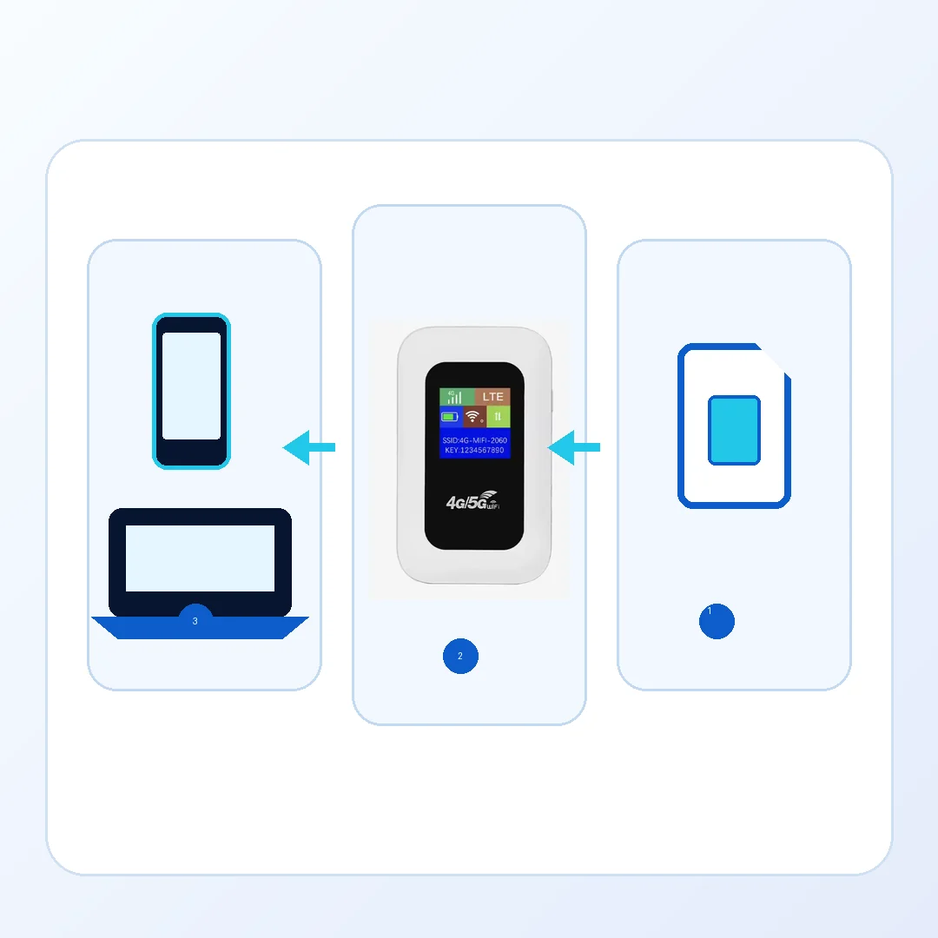
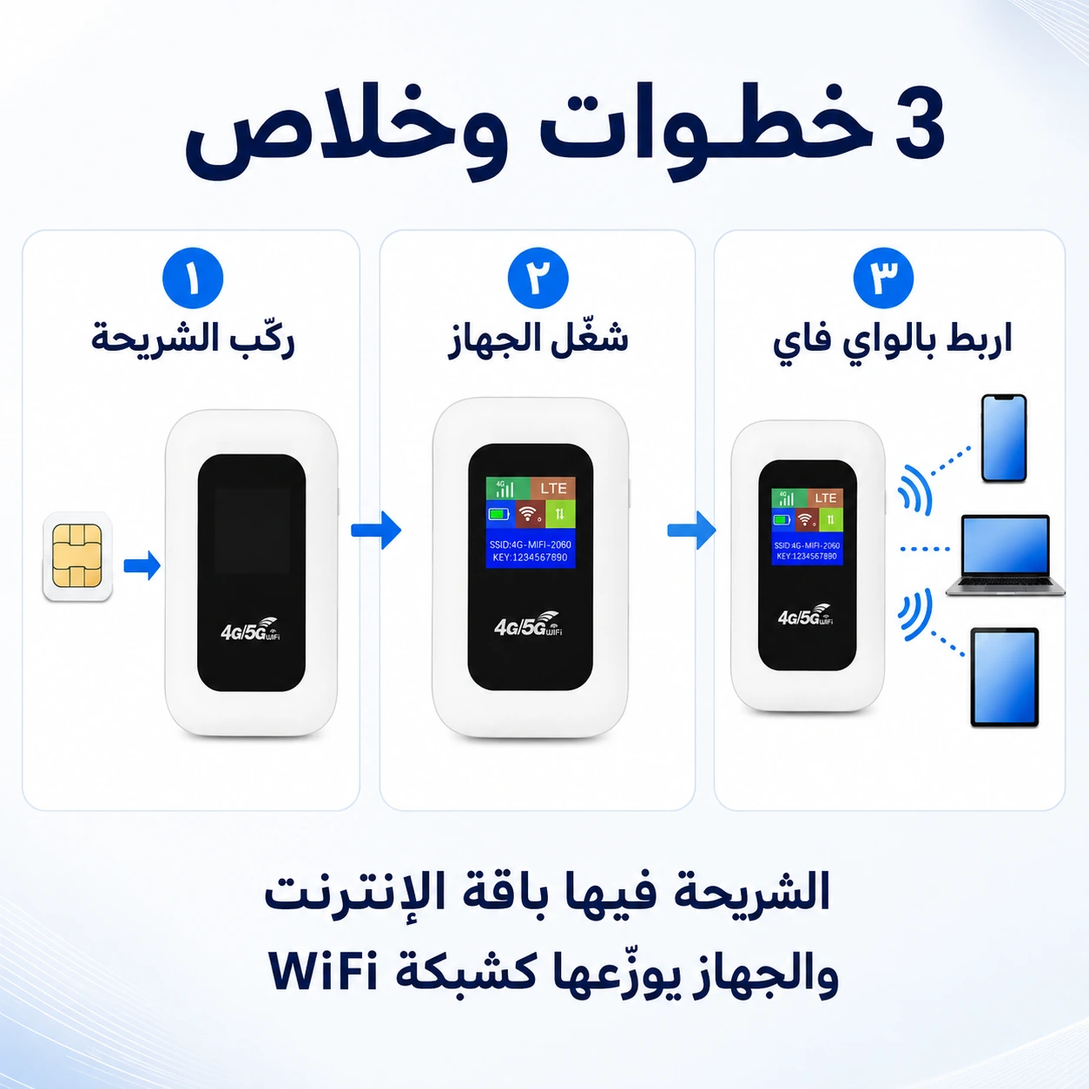
Use approved MF800B product image set

diff --git a/index.html b/index.html
@@ -6,7 +6,8 @@
   <meta name="theme-color" content="#06152f">
   <meta name="description" content="MF800B راوتر واي فاي محمول 4G LTE يعمل بشريحة SIM — متوفر داخل ليبيا والدفع عند الاستلام.">
   <title>MF800B | الإنترنت معاك وين ما تمشي</title>
-  <link rel="preload" as="image" href="images/hero-mf800b.webp" type="image/webp" fetchpriority="high">
+  <link rel="icon" href="images/hero-power-cut-main.webp" type="image/webp">
+  <link rel="preload" as="image" href="images/hero-power-cut-main.webp" type="image/webp" fetchpriority="high">
   <link rel="stylesheet" href="styles.css">
   <script>
     !function(f,b,e,v,n,t,s){if(f.fbq)return;n=f.fbq=function(){n.callMethod?
@@ -43,36 +44,28 @@
         <div class="product-gallery" role="group" aria-label="صور المنتج">
           <div class="gallery-track" data-gallery-track tabindex="0" role="region" aria-label="اسحب لمشاهدة صور المنتج">
             <figure class="gallery-slide active" data-slide="0">
-              <img src="images/hero-mf800b.webp" width="1080" height="1080" alt="جهاز MF800B الأبيض مع علبته" fetchpriority="high">
-              <figcaption class="gallery-chip"><b>MF800B</b><span>4G LTE Portable WiFi</span></figcaption>
+              <img src="images/hero-power-cut-main.webp" width="1254" height="1254" alt="MF800B يشارك إنترنت شريحة 4G مع الهاتف واللابتوب والتابلت وقت انقطاع الكهرباء" fetchpriority="high">
             </figure>
             <figure class="gallery-slide" data-slide="1">
-              <img src="images/how-it-works.webp" width="1080" height="1080" alt="شرح بصري من الشريحة إلى MF800B ثم الهاتف واللابتوب" loading="lazy">
-              <figcaption class="slide-copy light-copy"><b>3 خطوات وخلاص</b><span>ركّب الشريحة ← شغّل الجهاز ← اربط بالواي فاي</span></figcaption>
+              <img src="images/real-product-packaging.webp" width="1254" height="1254" alt="جهاز MF800B الأبيض مع علبة المنتج المطابقة" loading="lazy">
             </figure>
             <figure class="gallery-slide" data-slide="2">
-              <img src="images/power-cut.webp" width="1080" height="1080" alt="جهاز MF800B مشحون يشارك اتصال الشريحة مع هاتف وقت انقطاع الكهرباء" loading="lazy">
-              <figcaption class="slide-copy dark-copy"><b>الكهرباء قطعت؟</b><span>لو شبكة الهاتف شغالة، خليك متصل</span></figcaption>
+              <img src="images/how-it-works.webp" width="1254" height="1254" alt="ثلاث خطوات لتشغيل MF800B: تركيب الشريحة وتشغيل الجهاز والربط بالواي فاي" loading="lazy">
             </figure>
             <figure class="gallery-slide" data-slide="3">
-              <img src="images/multi-device.webp" width="1080" height="1080" alt="MF800B في وسط هاتف ولابتوب وتابلت متصلة بالواي فاي" loading="lazy">
-              <figcaption class="slide-copy dark-copy"><b>شبكة واحدة لأجهزتك</b><span>للهاتف واللابتوب والتابلت</span></figcaption>
+              <img src="images/multi-device-wifi.webp" width="1254" height="1254" alt="MF800B يربط الهاتف واللابتوب والتابلت بشبكة واي فاي واحدة" loading="lazy">
             </figure>
             <figure class="gallery-slide" data-slide="4">
-              <img src="images/portable-size.webp" width="1080" height="1080" alt="MF800B بحجم محمول بجانب أغراض السفر" loading="lazy">
-              <figcaption class="slide-copy light-copy"><b>الإنترنت معاك وين ما تمشي</b><span>خفيف للحوش، الشغل والسفر</span></figcaption>
+              <img src="images/portability.webp" width="1254" height="1254" alt="حجم MF800B المحمول مناسب للحوش والعمل والجامعة والسفر" loading="lazy">
             </figure>
             <figure class="gallery-slide" data-slide="5">
-              <img src="images/work-study.webp" width="1080" height="1080" alt="MF800B مع لابتوب وتابلت وهاتف على مكتب" loading="lazy">
-              <figcaption class="slide-copy light-copy"><b>للشغل، الدراسة والتنقل</b><span>شبكة مستقلة بدل ما يكون تلفونك هو الراوتر</span></figcaption>
+              <img src="images/features.webp" width="1254" height="1254" alt="مواصفات MF800B: اتصال 4G LTE وسرعة معلنة حتى 150Mbps وشحن Type-C وبطارية وواي فاي" loading="lazy">
             </figure>
             <figure class="gallery-slide" data-slide="6">
-              <img src="images/features.webp" width="1080" height="1080" alt="جهاز MF800B مع رموز أهم المواصفات" loading="lazy">
-              <figcaption class="slide-copy dark-copy"><b>كل اللي تحتاجه في جهاز واحد</b><span>4G LTE • SIM • Type-C • شاشة حالة</span></figcaption>
+              <img src="images/sim-explainer.webp" width="1254" height="1254" alt="شرح أن شريحة SIM وباقة 4G هما مصدر الإنترنت الذي يوزعه MF800B كشبكة WiFi" loading="lazy">
             </figure>
             <figure class="gallery-slide" data-slide="7">
-              <img src="images/real-product-package.webp" width="1080" height="1080" alt="جهاز MF800B والعلبة المطابقة للمنتج" loading="lazy">
-              <figcaption class="slide-copy light-copy"><b>نفس الجهاز اللي يوصلك</b><span>الجهاز الأبيض بواجهته السوداء مع العلبة الظاهرة</span></figcaption>
+              <img src="images/work-study.webp" width="1254" height="1254" alt="استخدام MF800B للعمل والدراسة والتنقل مع اللابتوب" loading="lazy">
             </figure>
           </div>
 
@@ -88,14 +81,14 @@
           </div>
 
           <div class="gallery-thumbs" aria-label="صور مصغرة للمنتج">
-            <button class="active" type="button" data-thumb="0" aria-label="عرض صورة المنتج والعلبة"><img src="images/hero-mf800b.webp" width="1080" height="1080" alt=""></button>
-            <button type="button" data-thumb="1" aria-label="عرض طريقة التشغيل"><img src="images/how-it-works.webp" width="1080" height="1080" alt="" loading="lazy"></button>
-            <button type="button" data-thumb="2" aria-label="عرض الاستخدام وقت انقطاع الكهرباء"><img src="images/power-cut.webp" width="1080" height="1080" alt="" loading="lazy"></button>
-            <button type="button" data-thumb="3" aria-label="عرض الاتصال بأجهزة متعددة"><img src="images/multi-device.webp" width="1080" height="1080" alt="" loading="lazy"></button>
-            <button type="button" data-thumb="4" aria-label="عرض الحجم المحمول"><img src="images/portable-size.webp" width="1080" height="1080" alt="" loading="lazy"></button>
-            <button type="button" data-thumb="5" aria-label="عرض استخدام العمل والدراسة"><img src="images/work-study.webp" width="1080" height="1080" alt="" loading="lazy"></button>
-            <button type="button" data-thumb="6" aria-label="عرض المواصفات"><img src="images/features.webp" width="1080" height="1080" alt="" loading="lazy"></button>
-            <button type="button" data-thumb="7" aria-label="عرض المنتج والعلبة"><img src="images/real-product-package.webp" width="1080" height="1080" alt="" loading="lazy"></button>
+            <button class="active" type="button" data-thumb="0" aria-label="عرض فائدة الجهاز وقت انقطاع الكهرباء"><img src="images/hero-power-cut-main.webp" width="1254" height="1254" alt=""></button>
+            <button type="button" data-thumb="1" aria-label="عرض المنتج والعلبة"><img src="images/real-product-packaging.webp" width="1254" height="1254" alt="" loading="lazy"></button>
+            <button type="button" data-thumb="2" aria-label="عرض طريقة التشغيل"><img src="images/how-it-works.webp" width="1254" height="1254" alt="" loading="lazy"></button>
+            <button type="button" data-thumb="3" aria-label="عرض الاتصال بأجهزة متعددة"><img src="images/multi-device-wifi.webp" width="1254" height="1254" alt="" loading="lazy"></button>
+            <button type="button" data-thumb="4" aria-label="عرض سهولة حمل الجهاز"><img src="images/portability.webp" width="1254" height="1254" alt="" loading="lazy"></button>
+            <button type="button" data-thumb="5" aria-label="عرض المواصفات"><img src="images/features.webp" width="1254" height="1254" alt="" loading="lazy"></button>
+            <button type="button" data-thumb="6" aria-label="عرض مصدر الإنترنت من الشريحة"><img src="images/sim-explainer.webp" width="1254" height="1254" alt="" loading="lazy"></button>
+            <button type="button" data-thumb="7" aria-label="عرض استخدام العمل والدراسة"><img src="images/work-study.webp" width="1254" height="1254" alt="" loading="lazy"></button>
           </div>
         </div>
 
@@ -153,17 +146,16 @@
     </section>
 
     <section class="content-section how-section">
-      <div class="container split-section">
-        <div class="content-image"><img src="images/how-it-works.webp" width="1080" height="1080" alt="مسار الشريحة إلى MF800B ثم أجهزتك" loading="lazy"></div>
-        <div class="section-copy">
+      <div class="container how-flow">
+        <div class="section-heading center">
           <span class="section-kicker">كيف يخدم؟</span>
-          <h2>3 خطوات وخلاص</h2>
-          <ol class="steps-list">
-            <li><b>1</b><div><strong>ركّب الشريحة</strong><span>شريحة SIM فيها باقة 4G ومتوافقة مع الجهاز.</span></div></li>
-            <li><b>2</b><div><strong>شغّل الجهاز</strong><span>خليه يلتقط شبكة الهاتف ويجهّز شبكة WiFi الخاصة.</span></div></li>
-            <li><b>3</b><div><strong>اربط بالواي فاي</strong><span>من الهاتف أو اللابتوب أو التابلت.</span></div></li>
-          </ol>
+          <h2>من شريحتك لشبكة WiFi خاصة</h2>
         </div>
+        <ol class="steps-list">
+          <li><b>1</b><div><strong>ركّب الشريحة</strong><span>شريحة SIM فيها باقة 4G ومتوافقة مع الجهاز.</span></div></li>
+          <li><b>2</b><div><strong>شغّل الجهاز</strong><span>خليه يلتقط شبكة الهاتف ويجهّز شبكة WiFi الخاصة.</span></div></li>
+          <li><b>3</b><div><strong>اربط بالواي فاي</strong><span>من الهاتف أو اللابتوب أو التابلت.</span></div></li>
+        </ol>
       </div>
     </section>
 
@@ -181,7 +173,7 @@
 
     <section class="content-section dark-section">
       <div class="container split-section reverse">
-        <div class="content-image"><img src="images/power-cut.webp" width="1080" height="1080" alt="هاتف متصل بجهاز MF800B وقت انقطاع الكهرباء" loading="lazy"></div>
+        <div class="content-image"><img src="images/power-cut-lifestyle.webp" width="1254" height="1254" style="aspect-ratio: 1 / 1" alt="MF800B مشحون يبقي الهاتف واللابتوب متصلين وقت انقطاع الكهرباء إذا استمرت شبكة الهاتف" loading="lazy" decoding="async"></div>
         <div class="section-copy">
           <span class="section-kicker">وقت انقطاع الكهرباء</span>
           <h2>الكهرباء قطعت؟ لو شبكة الهاتف شغالة، خليك متصل</h2>
@@ -202,31 +194,31 @@
       </div>
     </section>
 
-    <section class="content-section soft-section">
-      <div class="container">
-        <div class="section-heading"><span class="section-kicker">خذه معاك</span><h2>للشغل، الدراسة والتنقل</h2></div>
-        <div class="lifestyle-cards">
-          <figure><img src="images/portable-size.webp" width="1080" height="1080" alt="MF800B بجانب أغراض التنقل" loading="lazy"><figcaption><b>حجم محمول</b><span>سهل تحطه في الشنطة وتخليه قريب من أفضل إشارة.</span></figcaption></figure>
-          <figure><img src="images/work-study.webp" width="1080" height="1080" alt="MF800B على مكتب مع لابتوب وتابلت وهاتف" loading="lazy"><figcaption><b>شبكة لأجهزتك</b><span>للهاتف والتابلت واللابتوب بدون حد عددي غير موثّق.</span></figcaption></figure>
-          <figure><img src="images/multi-device.webp" width="1080" height="1080" alt="MF800B في وسط أجهزة شخصية متصلة" loading="lazy"><figcaption><b>جهاز مستقل</b><span>ما تحتاجش تترك تلفونك Hotspot طول الوقت.</span></figcaption></figure>
+    <section class="content-section soft-section travel-section">
+      <div class="container split-section">
+        <div class="content-image"><img src="images/travel-car.webp" width="1254" height="1254" style="aspect-ratio: 1 / 1" alt="MF800B داخل السيارة للاستخدام أثناء السفر عند توفر تغطية 4G" loading="lazy" decoding="async"></div>
+        <div class="section-copy">
+          <span class="section-kicker">خذه معاك</span>
+          <h2>شبكة مستقلة للتنقل والطريق</h2>
+          <p>حط الجهاز في شنطتك واستعمله في الشغل أو الجامعة أو السفر لما تكون تغطية 4G وباقة البيانات متوفرتين.</p>
+          <ul class="plain-checks"><li>حجم محمول وسهل الحمل</li><li>شبكة WiFi لأجهزتك الشخصية</li><li>ما تحتاجش تترك تلفونك Hotspot طول الوقت</li></ul>
         </div>
       </div>
     </section>
 
     <section class="content-section features-section">
-      <div class="container split-section">
-        <div class="content-image"><img src="images/features.webp" width="1080" height="1080" alt="أهم خصائص MF800B الموثقة" loading="lazy"></div>
-        <div class="section-copy">
+      <div class="container features-copy">
+        <div class="section-heading center">
           <span class="section-kicker">المواصفات المهمة</span>
-          <h2>كل اللي تحتاجه في جهاز واحد</h2>
-          <div class="spec-grid">
-            <div><b>4G LTE</b><span>راوتر محمول، مش راوتر 5G خلوي</span></div>
-            <div><b>حتى 150Mbps*</b><span>حد نظري/معلن وليس سرعة مضمونة</span></div>
-            <div><b>SIM</b><span>يستعمل بيانات شريحة الهاتف</span></div>
-            <div><b>Type-C</b><span>منفذ شحن حديث</span></div>
-            <div><b>شاشة حالة</b><span>للإشارة والبطارية ومعلومات الشبكة</span></div>
-            <div><b>WiFi</b><span>لأجهزتك التي تدعم الواي فاي</span></div>
-          </div>
+          <h2>المعلومات اللي تهمك قبل الطلب</h2>
+        </div>
+        <div class="spec-grid">
+          <div><b>4G LTE</b><span>راوتر محمول، مش راوتر 5G خلوي</span></div>
+          <div><b>حتى 150Mbps*</b><span>حد نظري/معلن وليس سرعة مضمونة</span></div>
+          <div><b>SIM</b><span>يستعمل بيانات شريحة الهاتف</span></div>
+          <div><b>Type-C</b><span>منفذ شحن حديث</span></div>
+          <div><b>شاشة حالة</b><span>للإشارة والبطارية ومعلومات الشبكة</span></div>
+          <div><b>WiFi</b><span>لأجهزتك التي تدعم الواي فاي</span></div>
         </div>
       </div>
     </section>
@@ -245,11 +237,11 @@
 
     <section class="content-section package-section">
       <div class="container split-section reverse">
-        <div class="content-image"><img src="images/real-product-package.webp" width="1080" height="1080" alt="MF800B مع علبة المنتج" loading="lazy"></div>
+        <div class="content-image"><img src="images/real-product-packaging.webp" width="1254" height="1254" style="aspect-ratio: 1 / 1" alt="MF800B الأبيض بواجهته السوداء مع علبة المنتج" loading="lazy" decoding="async"></div>
         <div class="section-copy">
           <span class="section-kicker">المنتج والعلبة</span>
-          <h2>نفس الجهاز اللي يوصلك</h2>
-          <p>MF800B أبيض بواجهة سوداء وشاشة حالة ملونة، مع علبة المنتج الظاهرة. الصور مبنية على مراجع الجهاز والعلبة الفعليين، مش على موديل مختلف.</p>
+          <h2>صورة واضحة للقطعة والعلبة قبل الطلب</h2>
+          <p>MF800B أبيض بواجهة سوداء وشاشة حالة ملونة، مع علبة المنتج الظاهرة في الصورة المعتمدة.</p>
           <ul class="plain-checks"><li>نفس شكل الجسم الأبيض</li><li>نفس الواجهة السوداء ومكان الشاشة</li><li>نفس هوية العلبة</li></ul>
           <p class="accessory-note">محتويات الملحقات قد تختلف حسب الدفعة؛ فريق التأكيد يوضح المتوفر قبل الشحن.</p>
         </div>

diff --git a/styles.css b/styles.css
@@ -49,22 +49,12 @@ h1, h2, h3, p { margin-top: 0; }
 .gallery-slide { display: none; position: relative; width: 100%; height: 100%; margin: 0; background: #edf5fe; }
 .gallery-slide.active { display: block; }
 .gallery-slide > img { width: 100%; height: 100%; aspect-ratio: 1; object-fit: contain; }
-.gallery-chip, .slide-copy { position: absolute; z-index: 2; right: 22px; display: flex; flex-direction: column; max-width: calc(100% - 44px); border-radius: 16px; box-shadow: 0 8px 30px rgba(6,21,47,.14); }
-.gallery-chip { bottom: 22px; padding: 10px 15px; background: rgba(6,21,47,.91); color: #fff; line-height: 1.35; }
-.gallery-chip b { font-size: 14px; }
-.gallery-chip span { color: #bceffc; font-size: 10px; direction: ltr; }
-.slide-copy { top: 22px; padding: 11px 14px; line-height: 1.45; }
-.slide-copy b { font-size: 17px; }
-.slide-copy span { font-size: 11px; font-weight: 700; }
-.light-copy { background: rgba(255,255,255,.92); color: var(--navy); }
-.dark-copy { background: rgba(6,21,47,.90); color: #fff; }
-.dark-copy span { color: #c9f3fb; }
 .gallery-dots { display: none; }
 .gallery-thumbs { display: grid; grid-template-columns: repeat(8, 1fr); gap: 8px; margin-top: 11px; direction: ltr; }
 .gallery-thumbs button { padding: 0; aspect-ratio: 1; border: 2px solid transparent; border-radius: 11px; overflow: hidden; background: #fff; cursor: pointer; opacity: .65; transition: .18s ease; }
 .gallery-thumbs button:hover, .gallery-thumbs button:focus-visible { opacity: 1; border-color: #8ccaf1; }
 .gallery-thumbs button.active { opacity: 1; border-color: var(--blue); box-shadow: 0 0 0 3px rgba(14,92,202,.12); }
-.gallery-thumbs img { width: 100%; height: 100%; object-fit: cover; }
+.gallery-thumbs img { width: 100%; height: 100%; object-fit: contain; }
 
 .descriptor { display: inline-flex; margin: 0 0 8px; padding: 6px 10px; border: 1px solid #b9d6f6; border-radius: 999px; background: #edf6ff; color: var(--blue); font-size: 11px; font-weight: 900; }
 .product-panel h1 { margin-bottom: 11px; color: var(--navy); font-size: clamp(34px, 3.6vw, 51px); line-height: 1.12; letter-spacing: -.035em; }
@@ -137,6 +127,8 @@ h1, h2, h3, p { margin-top: 0; }
 .section-copy > p { color: var(--muted); font-size: 16px; line-height: 1.9; }
 .dark-section .section-copy > p { color: #c8d5e7; }
 .steps-list { display: grid; gap: 10px; margin: 18px 0 0; padding: 0; list-style: none; }
+.how-flow { max-width: 1000px; }
+.how-flow .steps-list { grid-template-columns: repeat(3, minmax(0, 1fr)); }
 .steps-list li { display: grid; grid-template-columns: 42px 1fr; gap: 12px; align-items: center; padding: 12px; border: 1px solid var(--line); border-radius: 14px; background: #fff; }
 .steps-list li > b { width: 42px; height: 42px; display: grid; place-items: center; border-radius: 12px; background: var(--navy); color: #fff; font-size: 17px; }
 .steps-list div { display: flex; flex-direction: column; }
@@ -161,13 +153,10 @@ h1, h2, h3, p { margin-top: 0; }
 .comparison-cards li, .plain-checks li { position: relative; padding-right: 22px; color: #4d5b70; font-size: 13px; }
 .comparison-cards li::before, .plain-checks li::before { content: "✓"; position: absolute; right: 0; color: var(--green); font-weight: 900; }
 .comparison-note { max-width: 820px; margin: 15px auto 0; color: var(--muted); font-size: 11px; text-align: center; }
-.lifestyle-cards { display: grid; grid-template-columns: repeat(3, 1fr); gap: 14px; }
-.lifestyle-cards figure { margin: 0; border: 1px solid var(--line); border-radius: 19px; overflow: hidden; background: #fff; box-shadow: 0 10px 28px rgba(6,21,47,.06); }
-.lifestyle-cards img { width: 100%; aspect-ratio: 1; object-fit: cover; }
-.lifestyle-cards figcaption { display: flex; flex-direction: column; padding: 14px; }
-.lifestyle-cards figcaption b { color: var(--navy); font-size: 15px; }
-.lifestyle-cards figcaption span { color: var(--muted); font-size: 11px; }
+.travel-section .plain-checks { margin-top: 18px; }
+.features-copy { max-width: 980px; }
 .spec-grid { display: grid; grid-template-columns: repeat(2, 1fr); gap: 9px; margin-top: 18px; }
+.features-copy .spec-grid { grid-template-columns: repeat(3, minmax(0, 1fr)); }
 .spec-grid div { display: flex; flex-direction: column; padding: 12px; border: 1px solid var(--line); border-radius: 13px; background: var(--soft); }
 .spec-grid b { color: var(--navy); font-size: 13px; }
 .spec-grid span { color: var(--muted); font-size: 10px; }
@@ -230,9 +219,10 @@ footer { padding: 30px 0 92px; color: #9babc0; background: #030d20; }
   .gallery-track { display: flex; aspect-ratio: 1; border: 0; border-radius: 0; overflow-x: auto; overflow-y: hidden; scroll-snap-type: x mandatory; overscroll-behavior-x: contain; box-shadow: none; direction: ltr; scrollbar-width: none; }
   .gallery-track::-webkit-scrollbar { display: none; }
   .gallery-slide, .gallery-slide.active { display: block; flex: 0 0 100%; height: 100%; scroll-snap-align: center; scroll-snap-stop: always; direction: rtl; }
-  .gallery-dots { display: flex; justify-content: center; gap: 7px; margin: 10px 0 0; }
-  .gallery-dots button { width: 7px; height: 7px; padding: 0; border: 0; border-radius: 99px; background: #b7c5d6; cursor: pointer; transition: width .18s ease, background .18s ease; }
-  .gallery-dots button.active { width: 22px; background: var(--blue); }
+  .gallery-dots { display: flex; justify-content: center; gap: 3px; margin: 1px 0 0; }
+  .gallery-dots button { position: relative; width: 36px; height: 36px; padding: 0; border: 0; background: transparent; cursor: pointer; }
+  .gallery-dots button::after { content: ""; position: absolute; top: 50%; left: 50%; width: 7px; height: 7px; transform: translate(-50%, -50%); border-radius: 99px; background: #b7c5d6; transition: width .18s ease, background .18s ease; }
+  .gallery-dots button.active::after { width: 22px; background: var(--blue); }
   .gallery-thumbs { display: none; }
   .product-panel { padding-top: 15px; }
   .split-section, .split-section.reverse { grid-template-columns: 1fr; gap: 26px; }
@@ -256,13 +246,6 @@ footer { padding: 30px 0 92px; color: #9babc0; background: #030d20; }
   .brand b { font-size: 15px; }
   .brand small { font-size: 7px; }
   .header-cta { padding: 7px 13px; font-size: 10px; }
-  .gallery-chip, .slide-copy { right: 14px; max-width: calc(100% - 28px); border-radius: 12px; }
-  .gallery-chip { bottom: 14px; padding: 7px 10px; }
-  .gallery-chip b { font-size: 12px; }
-  .gallery-chip span { font-size: 8px; }
-  .slide-copy { top: 14px; padding: 8px 10px; }
-  .slide-copy b { font-size: 14px; }
-  .slide-copy span { font-size: 9px; }
   .product-panel { padding-top: 13px; }
   .descriptor { margin-bottom: 6px; padding: 4px 8px; font-size: 9px; }
   .product-panel h1 { margin-bottom: 8px; font-size: clamp(30px, 9vw, 38px); line-height: 1.12; }
@@ -307,7 +290,8 @@ footer { padding: 30px 0 92px; color: #9babc0; background: #030d20; }
   .comparison-cards { grid-template-columns: 1fr; }
   .comparison-cards article { padding: 18px; }
   .comparison-cards h3 { font-size: 19px; }
-  .lifestyle-cards { grid-template-columns: 1fr; }
+  .how-flow .steps-list { grid-template-columns: 1fr; }
+  .features-copy .spec-grid { grid-template-columns: repeat(2, minmax(0, 1fr)); }
   .spec-grid { gap: 7px; }
   .spec-grid div { padding: 9px; }
   .spec-grid b { font-size: 11px; }

diff --git a/IMAGE_PROMPTS.md b/IMAGE_PROMPTS.md
@@ -1,54 +1,25 @@
-# MF800B Gallery Asset Notes and Prompts
+# MF800B Approved Asset Manifest
 
-All production gallery files are 1080×1080 WebP. The real/recovered MF800B front, angle, and packaging photos were treated as locked identity references. The body shape, white shell, black front panel, screen position, controls, and package identity must not change.
+The earlier generated gallery was retired. The current production images come only from the user-approved `MF800B-final-images-for-codex.zip` package. Its PNG masters were inspected at 1254×1254 and converted directly to high-quality WebP without cropping, compositional edits, regenerated text, or image-generation prompts.
 
-Exact Arabic captions are rendered as HTML over the image assets so spelling, wrapping, safe margins, and mobile accessibility remain reliable. The base images intentionally contain no generated Arabic text.
+## Gallery
 
-## `hero-mf800b.webp`
+| Order | Approved master | Production file |
+| --- | --- | --- |
+| 1 | `01-hero-power-cut-main.png` | `images/hero-power-cut-main.webp` |
+| 2 | `08-real-product-packaging.png` | `images/real-product-packaging.webp` |
+| 3 | `02-how-it-works-3-steps.png` | `images/how-it-works.webp` |
+| 4 | `04-multi-device-wifi.png` | `images/multi-device-wifi.webp` |
+| 5 | `05-portability-on-the-go.png` | `images/portability.webp` |
+| 6 | `07-features-specs.png` | `images/features.webp` |
+| 7 | `09-sim-explainer.png` | `images/sim-explainer.webp` |
+| 8 | `06-work-study-use-case.png` | `images/work-study.webp` |
 
-Built-in image generation, `product-mockup`, using the real front, angle, packaging, and earlier product composition as references.
+## Supporting sections
 
-> Create a premium square studio product photograph of the exact MF800B portable 4G LTE WiFi router together with its exact retail packaging. Use a clean white to pale icy-blue studio sweep and a subtle deep-navy plinth. Keep the complete product and packaging within the central 78%, with no crop. Preserve the exact white rounded body, black vertical front/display panel, display position, proportions, side control, and packaging identity. Do not add antennas, Ethernet ports, fake controls, accessories, people, watermarks, or new claims.
+| Use | Approved master | Production file |
+| --- | --- | --- |
+| Power-cut lifestyle | `03-power-cut-home-lifestyle.png` | `images/power-cut-lifestyle.webp` |
+| Travel / road use | `10-travel-car-use-case.png` | `images/travel-car.webp` |
 
-## `how-it-works.webp`
-
-Deterministic square infographic composed from the real front-view product reference.
-
-> Create a clean square visual flow, right-to-left: SIM card → exact MF800B → phone and laptop. Keep three distinct steps, large safe margins, pale blue ecommerce background, no marketing claims, and no generated text. The exact Arabic copy is added in HTML: “3 خطوات وخلاص / ركّب الشريحة / شغّل الجهاز / اربط بالواي فاي”.
-
-## `power-cut.webp`
-
-Built-in image generation, `ads-marketing`, using the real product references.
-
-> Show the exact charged MF800B sharing a cellular connection with a phone during a household electricity outage. Use a credible dim Libyan home at dusk and keep the product readable and fully visible. Leave safe negative space for Arabic copy. Do not imply that MF800B powers the home, lights, appliances, or a fixed router. No runtime claim, antennas, Ethernet ports, fake controls, or 5G claim.
-
-## `multi-device.webp`
-
-Built-in image generation, `ads-marketing`, using the real product references.
-
-> Put the exact MF800B at the center of a restrained deep-navy studio composition with one phone, one laptop, and one tablet. Subtle cyan WiFi arcs may connect the devices. Keep every object inside the central 80%, do not show a numeric connected-device limit, and do not change the MF800B hardware.
-
-## `portable-size.webp`
-
-Built-in image generation, `ads-marketing`, using the real product references.
-
-> Show the exact MF800B in a premium overhead travel flat-lay with a compact bag, keys, phone, and passport-sized notebook. Product is the central hero. Keep the full device and all important objects inside the central 80%, with a clear area for Arabic copy. Do not invent accessories or dimensional claims.
-
-## `work-study.webp`
-
-Built-in image generation, `ads-marketing`, using the real product references.
-
-> Show the exact MF800B on a tidy home-office or study desk with one laptop, one tablet, and one phone. Use bright practical daylight and keep the full router prominent and recognizable. No faces, performance numbers, connected-device count, new ports, or 5G claim.
-
-## `features.webp`
-
-Deterministic square feature composition using the real front-view product reference.
-
-> Present the exact MF800B with restrained feature markers for 4G LTE, SIM, Type-C, screen, WiFi, and the qualified advertised 150Mbps maximum. Use deep navy, white, and cyan. Do not add unsupported battery runtime, connected-device limits, operator compatibility, or accessories.
-
-## `real-product-package.webp`
-
-Reworked square product/package composition from the locked product and packaging references.
-
-> Show the exact MF800B and exact retail packaging together in a clean square ecommerce composition. Both must be completely visible and recognizable with generous edge clearance. No different device, fake brand, altered screen position, antennas, Ethernet ports, or invented contents.
-
+All production files retain the 1254×1254 square canvas. The page preloads only the first gallery image and lazy-loads the remaining gallery and supporting images.

diff --git a/README.md b/README.md
@@ -26,11 +26,30 @@ The storefront sends:
 - `InitiateCheckout` on first order intent
 - `Lead` after a valid COD form submission
 
-COD submission is **not** treated as a completed sale. No frontend purchase-completion event is fired.
+COD submission is **not** treated as a completed sale. No frontend `Purchase` event is fired.
 
 ## Order handling
 
 The order form preserves the shared Google Sheets payload shape, Libyan phone normalization/validation, order references, disabled submitting state, and recent duplicate prevention. Localhost QA skips the external sheet write and logs the payload in the browser console.
+
+## Approved image set
+
+The ten production WebPs are direct, composition-preserving conversions of the approved 1254×1254 PNG masters supplied in `MF800B-final-images-for-codex.zip`. No image generation, redesign, crop, or text overlay is used.
+
+The eight-slide gallery order is:
+
+1. `hero-power-cut-main.webp`
+2. `real-product-packaging.webp`
+3. `how-it-works.webp`
+4. `multi-device-wifi.webp`
+5. `portability.webp`
+6. `features.webp`
+7. `sim-explainer.webp`
+8. `work-study.webp`
+
+Supporting section assets are `power-cut-lifestyle.webp` and `travel-car.webp`. Mobile uses horizontal scroll-snap with pagination; desktop uses a square main image and clickable square thumbnails. Every image is displayed at 1:1 with `object-fit: contain`.
+
+See `IMAGE_PROMPTS.md` for the approved asset manifest and provenance note.
 
 ## Local preview
 
@@ -41,10 +60,3 @@ python3 -m http.server 4173
 ```
 
 Then open `http://localhost:4173`.
-
-## Gallery
-
-The production gallery contains eight 1080×1080 WebP assets. Mobile uses horizontal scroll-snap with pagination; desktop uses a square main image and clickable square thumbnails. All product imagery is displayed without cover-cropping the MF800B or its packaging.
-
-See `IMAGE_PROMPTS.md` for the asset provenance and production prompts.
-
